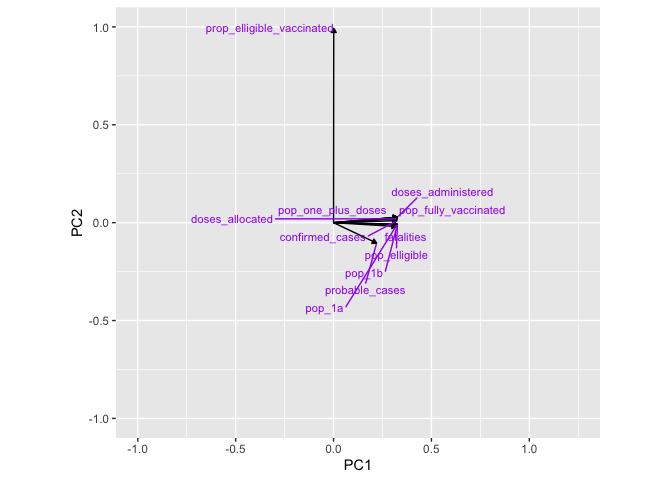
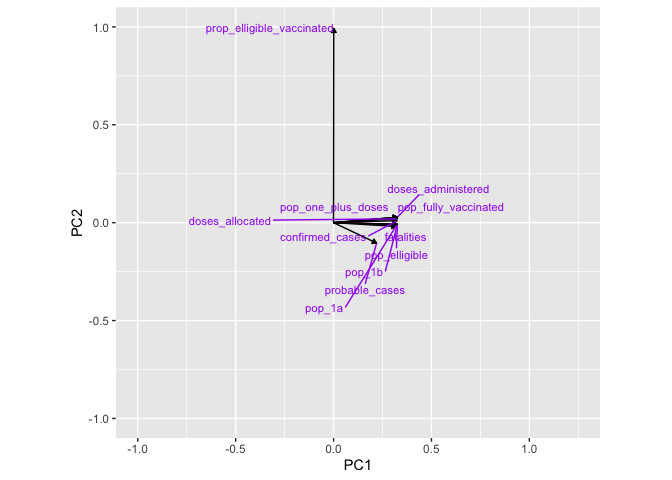
This is the updated version.

Changed region(s): [[0.2812, 0.375, 0.75, 0.5], [0.4375, 0.5625, 0.5938, 0.6562]]

diff --git a/Project1.md b/Project1.md
@@ -135,9 +135,9 @@ txcoviddata2 <-  txcoviddata %>%
   mutate("pop_1a" = (pop_healthcare + pop_ltcr)) %>%
   #create variable representing total population that falls under phase 1b elligibility
   mutate("pop_1b" = (pop_condition + pop_education + pop_65)) %>%
-  #create variable representing total population elligible for vaccine
+  #create variable representing total population eligible for vaccine
    mutate("pop_elligible" = (pop_1a + pop_1b)) %>%
-  #create variable representing proportion of elligible population vaccinated
+  #create variable representing proportion of eligible population vaccinated
   mutate("prop_elligible_vaccinated" = (pop_one_plus_doses/pop_elligible)) %>%
   #create categorical variable indicating if the county has a high, medium, or low level of cases
   mutate(case_level = case_when(confirmed_cases>10000 ~ "high", 
@@ -260,40 +260,47 @@ cor(txcoviddata2_num, use = "pairwise.complete.obs")
 
 Using the mutate function, I created two new variables: pop\_1a and
 pop\_1b. pop\_1a represents the total population of county citizens that
-are elligible for the vaccine under the conditions of Phase 1a, meaning
+are eligible for the vaccine under the conditions of Phase 1a, meaning
 that they are healthcare workers or long-term care residents and
 employees. pop\_1b represents the total population of each county that
-is elligible for the Covid-19 vaccine based on Phase 1b. This means that
+is eligible for the Covid-19 vaccine based on Phase 1b. This means that
 they are either aged 65 or older, aged 16-64 with a medical condition
 that puts them at high risk of a severe Covid-19 case, or an
 education/child-care employee. I then combined the two variables to
 create a variable adding up the total known population of individuals
-elligible for the vaccine. Using this new variable, pop\_elligible, I
-created a proportion of the elligible population that has been
+eligible for the vaccine. Using this new variable, pop\_elligible, I
+created a proportion of the eligible population that has been
 vaccinated. This is under the assumptions that a) only those who are
-truly elligible for the vaccine are being vaccinated, and b) the total
+truly eligible for the vaccine are being vaccinated, and b) the total
 doses administered per county have been administered to county citizens
 and not those living in other areas. Lastly, I created a variable called
 case\_level which divided the counties into high, medium, or low
 depending on how many total covid cases they have.
 
 I calculated the average number of cases, vaccine doses administered,
-elligible population, and proportion of the elligible population that
-has been vaccinated both overall and when the dataset has been grouped
-based by case level. Altogether, the average number of covid cases
-across the counties in Texas is 9174.08 cases with a standard deviation
-of 34062.57 cases. The mean number of doses administered is 26902.38
-doses. The mean elligible population is 56699.36 people with an average
-proportion of vaccinated population of 0.31.
+eligible population, and proportion of the eligible population that has
+been vaccinated both overall and when the dataset has been grouped based
+by case level. Altogether, the average number of covid cases across the
+counties in Texas is 9174.08 cases with a standard deviation of 34062.57
+cases. The mean number of doses administered is 26902.38 doses. The mean
+eligible population is 56699.36 people with an average proportion of
+vaccinated population of 0.31.
 
-When grouped by case level, those in the “high” case level have larger
-average values for each variable with the exception of the mean
-proportion of those vaccinated. The higher average number of cases,
-doses administered, and elligible population are expected as we would
-likely see these larger numbers in a more densely populated county.
-Counties with higher numbers of cases will also see larger numbers of
-doses being distributed to them, as they are at a higher risk level
-overall than less populated counties.
+When grouped by case level, those in the “high” case level had the
+largest average number of Covid-19 cases, 56,244.31 cases, and the
+largest average number of doses distributed, 160,378.71 doses. The
+average eligible population was also the highest with 326,685.11
+individuals. The higher average number of cases, doses administered, and
+eligible population are expected as we would likely see these larger
+numbers in a more densely populated county. Counties with higher numbers
+of cases will also see larger numbers of doses being distributed to
+them, as they are at a higher risk level overall than less populated
+counties. Larger counties will also have greater access to resources
+that allow for them to store the vaccines that require specific, low
+temperatures such as -80 degree Celsius freezers. Each of these factors
+diminishes as we look at smaller counties. Rural areas, where the less
+populated counties often are located, often do not possess the resources
+or manpower to maintain a vaccine stock as grand as the larger counties.
 
 Lastly, I calculated a correlation matrix for the dataset which will be
 visualized in the next section.
@@ -353,7 +360,7 @@ txcoviddata2 %>%
   #remove legend
   theme(axis.text.x = element_text(angle=45, hjust=1), legend.position="none") +
   #add axis labels and title
-  labs(x= "Case Level", y= "Mean Proportion of Elligible Population Vaccinated", title = "Proportion of Elligible Populations Vaccinated Based on Case Level Severity") 
+  labs(x= "Case Level", y= "Mean Proportion of Eligible Population Vaccinated", title = "Proportion of Eligible Populations Vaccinated Based on Case Level Severity") 
 ```
 
 ![](Project1_files/figure-gfm/Visualizations-3.png)<!-- -->
@@ -368,20 +375,22 @@ confirmed cases. They are cases that may be suspected to be Covid-19, so
 they are much more variable and often times lower than the number of
 verified, confirmed cases. Additionally, the proportion variable that I
 created does not have a correlation between between any of the other
-variables.
+variables. This indicates that the rate at which the counties can
+vaccinate their populations may not differ based on their overall case
+level and size.
 
 I investigated this last detail further bycreating a barplot to
 visualize the mean proportion of vaccinated population for each case
-level group. The “high” case level had an average proportion of 30%, the
-“medium” level had a mean proportion of around 35%, and the “low” case
-level had an average proportion of around 25%. This comes as a surprise
-to me, as I expected the high case level to have the greatest
-proportion, as they have the highest number of vaccines allocated to
-them. However, they have a much larger population to vaccinate, which
-would explain why they have a slightly lower proportion than those
-sorted into the low case level. This would also explain why a
-relationship isn’t demonstrated between the proportion variable and the
-other dataset variables. The size of elligible population and the number
+level group. The “high” case level had an average proportion of around
+30%, the “medium” level had a mean proportion of about 35%, and the
+“low” case level had an average proportion of around 27%. This comes
+as a surprise to me, as I expected the high case level group to have the
+greatest proportion, as they have the highest number of vaccines
+allocated to them. However, they have a much larger population to
+vaccinate, which would explain why they have a slightly lower proportion
+than those sorted into the low case level. This would also explain why a
+correlation isn’t demonstrated between the proportion variable and the
+other dataset variables. The size of eligible population and the number
 of doses allocated and administered do not have an impact on the overall
 proportion of vaccinated population.
 
@@ -392,7 +401,8 @@ the category groups. As demonstrated by the plots, there is a positive,
 linear relationship between counties that have higher case numbers and
 the number of doses administered. This was expected, as we would likely
 see a higher number of doses allocated towards those counties that are
-suffering the most from the pandemic.
+suffering the most from the pandemic. Those in the high case level group
+appear to have the steepest, positive linear correlation.
 
 ## PCA Analysis
 
@@ -537,17 +547,21 @@ percentage of variance explained by these variables. PC1 explains 84.43%
 of the variance among the variables whereas PC2 covers 9.16% of the
 variance between the variables. I visualiazed what variables influenced
 which PC’s by using geom\_segment and geom\_text. As demonstrated by the
-plot, the variable of the proportion of elligible population vaccinated
+plot, the variable of the proportion of eligible population vaccinated
 greatly influenced PC2 while all of the remaining variables influenced
 PC1. Since many of the arrows were close together, I tried to space out
-the variable labels better using the package “ggrepel.” Lastly, I
-visualized each of the observations along PC1 and PC2 and grouped them
-based on their case level. Those observations in the “low” and “medium”
-case levels appear to be greatly varied along the PC2. This could be
+the variable labels better using the package “ggrepel.” It appears that
+PC2 is most influenced by the variable prop\_elligible\_vaccinated while
+PC1 is impacted by the remaining numeric variables. Lastly, I visualized
+each of the observations along PC1 and PC2 and grouped them based on
+their case level. Those observations in the “low” case level appears to
+be greatly varied along the PC2. The “high” and “medium” case level
+groups appear to be more negatively influenced by PC2. This could be
 explained by the fact that the variable of the proportion of those
 vaccinated doesn’t correlate much to any other variables. Neither case
-level appears to be influenced much by PC1. Alternatively, those in the
-“high” case level seem much more affected by PC1 and not as much PC2.
+level appears to be influenced much by PC1. Alternatively, those
+observations in the “high” case level seem more positively affected by
+PC1 than the other two case level groups.
 
 ## References
 
